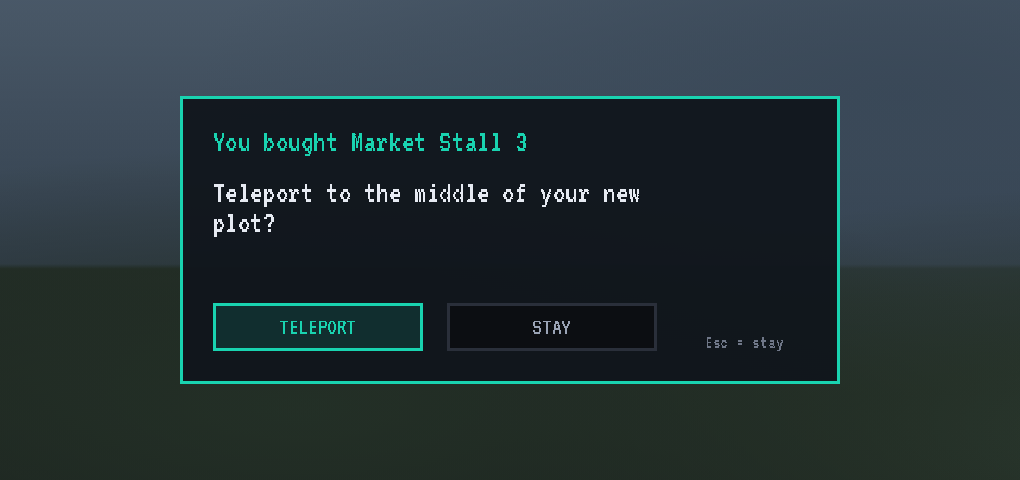
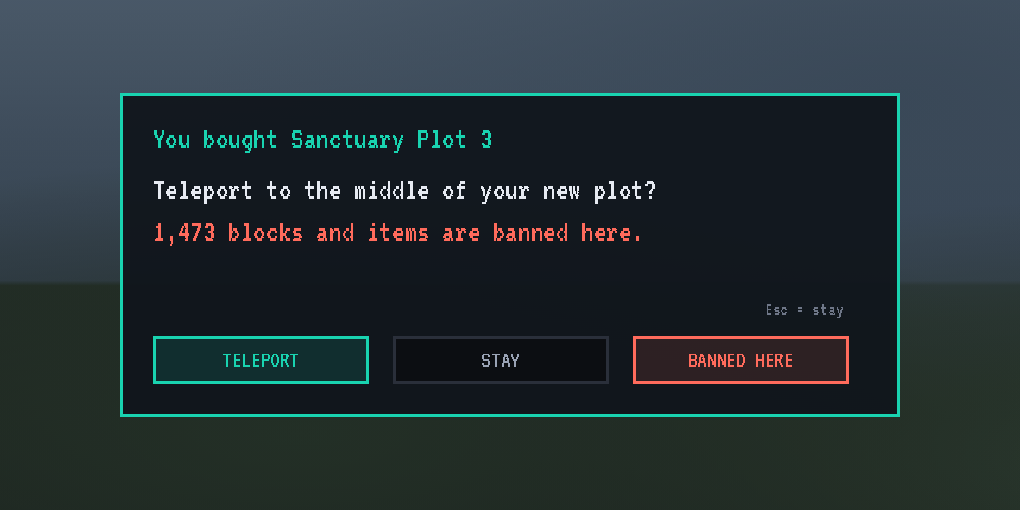
Changelog and Description

Changed region(s): [[0.0912, 0.1562, 0.8814, 0.8438]]

diff --git a/tools/curseforge/banned_here.html b/tools/curseforge/banned_here.html
@@ -1,0 +1,79 @@
+<!doctype html>
+<html><head><meta charset="utf-8"><meta name="size" content="452x268"><link rel="stylesheet" href="holo.css">
+<style>
+/* Laid out from client/BannedHereScreen.java (420 x 236): cells 17 from (12, 42), 23 columns, 9 rows, the card under the grid. */
+.slot { position: absolute; width: 16px; height: 16px; background: #171b22; outline: 1px solid; }
+.slot svg { position: absolute; left: 2px; top: 2px; width: 12px; height: 12px; }
+.slot.pick { outline-color: #fff !important; }
+</style></head>
+<body>
+<div class="world"></div>
+<div class="screen" style="left:16px;top:16px;width:420px;height:236px" id="s">
+    <div class="abs t1 tq" style="left:8px;top:8px">BANNED HERE</div>
+    <div class="abs t6 muted" style="left:80px;top:10px">Sanctuary Plot 3: 1,473 items</div>
+    <div class="chip" style="left:368px;top:6px;width:44px;height:12px;font-size:8px;color:var(--text)">CLOSE</div>
+    <div class="inset" style="left:8px;top:22px;width:120px;height:14px"><span class="abs t6 hint" style="left:4px;top:4px">search, or @mod</span></div>
+    <div class="chip on" style="left:134px;top:23px;width:34px;height:12px;font-size:5.8px;color:var(--text);border-color:var(--text);background:rgba(230,234,242,.1)">ALL 1,473</div>
+    <div class="chip" style="left:170px;top:23px;width:46px;height:12px;font-size:5.8px">PLACE 1,473</div>
+    <div class="chip" style="left:218px;top:23px;width:38px;height:12px;font-size:5.8px">USE 1,473</div>
+    <div class="chip" style="left:258px;top:23px;width:34px;height:12px;font-size:5.8px;color:var(--hint)">BREAK 0</div>
+    <div class="chip" style="left:294px;top:23px;width:42px;height:12px;font-size:5.8px;color:var(--hint)">BRING IN 0</div>
+    <div class="inset" style="left:8px;top:38px;width:404px;height:161px"></div>
+    <div class="abs" style="left:406px;top:42px;width:4px;height:153px;background:#171b22"></div>
+    <div class="abs" style="left:406px;top:42px;width:4px;height:34px;background:var(--dim)"></div>
+    <!-- the card for the item under the mouse -->
+    <div class="abs" style="left:8px;top:203px;width:404px;height:25px;background:#0a0d12;border:1px solid var(--line)"></div>
+    <div class="abs" id="cardicon" style="left:11px;top:207px;width:16px;height:16px"></div>
+    <div class="abs t75 text" style="left:30px;top:207px">Digital Miner</div>
+    <div class="abs t5 hint" style="left:30px;top:216px">Mekanism&nbsp;&nbsp;mekanism:digital_miner</div>
+    <div class="chip gold" style="left:224px;top:209px;width:44px;height:11px;font-size:5.4px">PLACE</div>
+    <div class="chip on" style="left:270px;top:209px;width:44px;height:11px;font-size:5.4px">USE</div>
+    <div class="chip" style="left:316px;top:209px;width:44px;height:11px;font-size:5.4px">BREAK</div>
+    <div class="chip" style="left:362px;top:209px;width:44px;height:11px;font-size:5.4px">BRING IN</div>
+</div>
+<script>
+const s = document.getElementById('s');
+const add = h => s.insertAdjacentHTML('beforeend', h);
+function cube(t, l, r, dot) {
+  let v = `<svg viewBox="0 0 12 12"><polygon points="6,0.5 11.5,3.2 6,6 0.5,3.2" fill="${t}"/><polygon points="0.5,3.2 6,6 6,11.5 0.5,8.8" fill="${l}"/><polygon points="11.5,3.2 6,6 6,11.5 11.5,8.8" fill="${r}"/>`;
+  if (dot) v += `<rect x="5" y="2.2" width="2" height="1.2" fill="${dot}"/><rect x="2.3" y="6" width="1.6" height="1.6" fill="${dot}"/><rect x="8" y="6.6" width="1.6" height="1.6" fill="${dot}"/>`;
+  return v + '</svg>';
+}
+function rod(c, h) { return `<svg viewBox="0 0 12 12"><rect x="1" y="5" width="10" height="2" fill="${c}"/><rect x="1" y="4.4" width="10" height=".6" fill="${h}"/></svg>`; }
+function orb(c, h) { return `<svg viewBox="0 0 12 12"><circle cx="6" cy="6" r="4.4" fill="${c}"/><circle cx="4.6" cy="4.4" r="1.4" fill="${h}"/></svg>`; }
+function tool(c, h) { return `<svg viewBox="0 0 12 12"><rect x="5.2" y="4" width="1.6" height="7.5" fill="#8a6a30"/><rect x="2" y="1" width="8" height="3.2" fill="${c}"/><rect x="2" y="1" width="8" height="1" fill="${h}"/></svg>`; }
+const hue = (h, s, l) => `hsl(${h} ${s}% ${l}%)`;
+function block(h, s, l, dot) { return cube(hue(h, s, l + 12), hue(h, s, l), hue(h, s, l - 8), dot); }
+// mods and a few of their items, in Region Guard's order (by mod, then by name)
+const mods = [
+  ['APPLIED ENERGISTICS 2', 30, [[i => block(260, 18, 34 + (i % 3) * 4, i % 2 ? '#b58cff' : null)], [i => rod(hue(275, 40, 45 + (i % 4) * 5), '#d9c8ff')]]],
+  ['BALLISTIX', 13, [[i => rod(hue(10, 10, 55), '#e8e8e8')], [i => orb('#3a3f48', '#ff6b5c')]]],
+  ['CREATE', 23, [[i => block(32, 45, 40 + (i % 3) * 3, '#c9a35a')], [i => tool('#c9a35a', '#e8d29a')]]],
+  ['MEKANISM', 32, [[i => block(205, 12, 44 + (i % 4) * 3, ['#5de6e0', '#ffd23a', '#ff6b5c', '#2ecc71'][i % 4])], [i => tool('#a9b2bf', '#e6eaf2')]]],
+  ['MINECRAFT', 8, [[i => cube('#e8e8e8', '#d23a2e', '#b02c22')], [i => orb('#d9a6ff', '#ffffff')], [i => block(280, 40, 18, '#ff8a2a')]]],
+];
+let row = 0, slots = [];
+for (const [name, n, kinds] of mods) {
+  if (row >= 9) break;
+  const y = 42 + row * 17;
+  add(`<div class="abs t6 muted" style="left:12px;top:${y + 5}px">${name}</div>`);
+  add(`<div class="abs" style="left:12px;top:${y + 13}px;width:389px;height:1px;background:var(--line)"></div>`);
+  row++;
+  for (let i = 0; i < n && row < 9; i++) {
+    const c = i % 23;
+    if (c === 0 && i > 0) row++;
+    if (row >= 9) break;
+    const k = kinds[(i * 7 + 3) % kinds.length];
+    slots.push([12 + c * 17, 42 + row * 17, k[0](i), name, i]);
+  }
+  row++;
+}
+const colourOf = () => 'var(--gold)'; // PLACE is the strongest rule on every item of this list
+const isPick = (mod, i) => mod === 'MEKANISM' && i === 5;
+slots.forEach(([x, y, svg, mod, i]) => add(`<div class="slot${isPick(mod, i) ? ' pick' : ''}" style="left:${x}px;top:${y}px;outline-color:${colourOf()}">${svg}</div>`));
+const picked = slots.find(sl => isPick(sl[3], sl[4]));
+document.getElementById('cardicon').innerHTML = `<div class="slot" style="left:0;top:0;outline:none;background:none">${picked ? picked[2] : ''}</div>`;
+// the pointer over the picked slot
+if (picked) add(`<svg class="abs" style="left:${picked[0] + 9}px;top:${picked[1] + 9}px;width:9px;height:12px" viewBox="0 0 9 12"><polygon points="0,0 0,10 3,7.5 5,11.5 6.6,10.8 4.7,7 8.5,7" fill="#fff" stroke="#000" stroke-width=".7"/></svg>`);
+</script>
+</body></html>

diff --git a/tools/curseforge/office_plots.html b/tools/curseforge/office_plots.html
@@ -1,0 +1,68 @@
+<!doctype html>
+<html><head><meta charset="utf-8"><meta name="size" content="452x268"><link rel="stylesheet" href="holo.css">
+<style>
+/* Laid out from client/OfficePlotsScreen.java (420 x 236): the list at (8, 66) 194 wide in rows of 12, the map at (208, 52) 204 x 160. */
+.box { position: absolute; width: 8px; height: 8px; background: var(--inset); border: 1px solid var(--line); }
+.box.on { border-color: var(--tq); background: rgba(25, 211, 176, .2); }
+.box.on::after { content: ""; position: absolute; left: 1px; top: 1px; width: 4px; height: 4px; background: var(--tq); }
+.p { position: absolute; border: 1px solid; }
+</style></head>
+<body>
+<div class="world"></div>
+<div class="screen" style="left:16px;top:16px;width:420px;height:236px" id="s">
+    <div class="abs t1 tq" style="left:8px;top:8px">OFFICE PLOTS</div>
+    <div class="abs t6 muted" style="left:90px;top:10px">Land Office at 128, 70, -42 - sanctuary</div>
+    <div class="chip" style="left:368px;top:6px;width:44px;height:12px;font-size:8px;color:var(--text)">DONE</div>
+    <div class="abs t6 muted" style="left:8px;top:26px">LISTS</div>
+    <div class="chip" style="left:40px;top:23px;width:62px;height:12px">EVERY PLOT</div>
+    <div class="chip on" style="left:104px;top:23px;width:62px;height:12px">CHOSEN</div>
+    <div class="abs t6 text" style="left:172px;top:26px">7 of 12 plots listed here</div>
+    <div class="chip" style="left:8px;top:38px;width:60px;height:11px;color:var(--text);border-color:var(--text);background:rgba(230,234,242,.1)">PLOTS</div>
+    <div class="chip" style="left:70px;top:38px;width:60px;height:11px">GROUPS</div>
+    <div class="inset" style="left:8px;top:52px;width:194px;height:14px"><span class="abs t6 hint" style="left:4px;top:4px">Search plots or groups</span></div>
+    <div class="inset" style="left:8px;top:66px;width:194px;height:62px"></div>
+    <div class="inset" style="left:208px;top:52px;width:204px;height:160px"></div>
+    <div class="abs t5 hint" style="left:208px;top:215px">Click a plot to tick it. Teal: ticked. Gold: in a ticked group.</div>
+    <div class="abs t6 hint" style="left:8px;top:224px">Lists the ticked plots and every plot in the ticked groups. Copies of a ticked plot are ticked too.</div>
+</div>
+<script>
+const s = document.getElementById('s');
+const add = h => s.insertAdjacentHTML('beforeend', h);
+// [id, group, ticked, x, z] on a 16-block grid; the office sits in the middle of the market street
+const plots = [
+  ['sanctuary_plot_1', '', true, 0, 0], ['sanctuary_plot_2', '', true, 1, 0], ['sanctuary_plot_3', '', true, 2, 0],
+  ['sanctuary_plot_4', '', false, 3, 0], ['sanctuary_plot_5', '', false, 4, 0],
+  ['market_stall_1', 'market', false, 0, 1], ['market_stall_2', 'market', false, 1, 1], ['market_stall_3', 'market', false, 2, 1],
+  ['market_stall_4', 'market', false, 3, 1], ['spawn_shop_1', 'spawn', false, 0, 2], ['spawn_shop_2', 'spawn', false, 1, 2], ['spawn_shop_3', 'spawn', false, 2, 2],
+];
+const listed = p => p[2] || p[1] === 'market';
+// the list: 9 rows less 4 when a plot is picked (sanctuary_plot_3 is picked)
+plots.slice(0, 5).forEach((p, i) => {
+  const y = 67 + i * 12;
+  if (p[0] === 'sanctuary_plot_3') add(`<div class="abs" style="left:9px;top:${y}px;width:192px;height:12px;background:rgba(25,211,176,.13)"></div>`);
+  add(`<div class="box${p[2] ? ' on' : ''}" style="left:11px;top:${y + 2}px"></div>`);
+  add(`<div class="abs t6 ${listed(p) ? 'text' : 'muted'}" style="left:24px;top:${y + 3}px">${p[0]}</div>`);
+  add(`<div class="abs t5 ${p[1] === 'market' ? 'gold' : 'hint'}" style="right:${420 - 197}px;top:${y + 4}px">${p[1] ? p[1] + '&nbsp;&nbsp;' : ''}16x16</div>`);
+});
+add('<div class="chip" style="left:8px;top:134px;width:70px;height:11px;font-size:5.8px;color:var(--tq)">TICK ALL SHOWN</div>');
+add('<div class="chip" style="left:80px;top:134px;width:40px;height:11px;font-size:5.8px">CLEAR</div>');
+add('<div class="abs t5 muted" style="left:8px;top:149px">Group of sanctuary_plot_3:</div>');
+[['no group', 40, true], ['market', 32, false], ['spawn', 28, false], ['sanctuary', 40, false]].reduce((x, [g, w, on]) => {
+  add(`<div class="chip${on ? ' gold' : ''}" style="left:${x}px;top:158px;width:${w}px;height:11px;font-size:5.8px">${g}</div>`);
+  return x + w + 2;
+}, 8);
+// the map
+const ox = 222, oz = 66, cell = 34;
+plots.forEach(p => {
+  const c = p[2] ? 'var(--tq)' : p[1] === 'market' ? 'var(--gold)' : 'var(--dim)';
+  const bg = p[2] ? 'rgba(25,211,176,.27)' : p[1] === 'market' ? 'rgba(255,210,58,.27)' : 'rgba(74,80,96,.27)';
+  const sel = p[0] === 'sanctuary_plot_3' ? ';border-color:#fff' : '';
+  add(`<div class="p" style="left:${ox + p[3] * cell}px;top:${oz + p[4] * 46}px;width:${cell - 4}px;height:${cell - 4}px;border-color:${c};background:${bg}${sel}"></div>`);
+});
+add(`<div class="abs" style="left:${ox + 4 * cell + 2}px;top:${oz + 46 + 12}px;width:5px;height:5px;background:#ffb84d"></div>`);
+add(`<div class="abs t5" style="left:${ox + 4 * cell - 6}px;top:${oz + 46 + 20}px;color:#ffb84d">Land Office</div>`);
+// a tooltip over a market stall
+add(`<div class="abs" style="left:${ox + 1 * cell + 18}px;top:${oz + 46 + 18}px;background:rgba(16,0,16,.94);border:1px solid #2b0e5a;padding:3px 4px;white-space:nowrap;line-height:1.25">
+  <div class="t6 text">market_stall_2</div><div class="t6 muted">group market</div><div class="t6 tq">listed at this office</div></div>`);
+</script>
+</body></html>

diff --git a/tools/curseforge/banned_button.html b/tools/curseforge/banned_button.html
@@ -1,0 +1,31 @@
+<!doctype html>
+<html><head><meta charset="utf-8"><meta name="size" content="340x190"><link rel="stylesheet" href="holo.css">
+<style>
+/* The inventory's top left (client/BannedInventoryButton.java): BSP-Core's TEAM and KITS, then BANNED, each 40 x 14 with a gap of 2. */
+.corner { position: absolute; width: 40px; height: 14px; background: #10151c; border: 1px solid #2a2f3a; color: var(--muted);
+    font-size: 8px; display: flex; align-items: center; justify-content: center; }
+.corner.hot { border-color: var(--tq); color: var(--tq); }
+.inv { position: absolute; background: #c6c6c6; border: 2px solid; border-color: #fff #555 #555 #fff; box-shadow: 0 0 0 1px #000; }
+.s { position: absolute; width: 18px; height: 18px; background: #8b8b8b; border: 1px solid; border-color: #373737 #fff #fff #373737; box-sizing: border-box; }
+.tip { position: absolute; background: rgba(16, 0, 16, 0.94); border: 1px solid #2b0e5a; padding: 3px 4px; font-size: 8px; color: #fff; white-space: nowrap; box-shadow: inset 0 0 0 1px #25034d; }
+</style></head>
+<body>
+<div class="world"></div>
+<div class="corner" style="left:2px;top:2px">TEAM</div>
+<div class="corner" style="left:44px;top:2px">KITS</div>
+<div class="corner hot" style="left:86px;top:2px">BANNED</div>
+<svg class="abs" style="left:112px;top:10px;width:9px;height:12px" viewBox="0 0 9 12"><polygon points="0,0 0,10 3,7.5 5,11.5 6.6,10.8 4.7,7 8.5,7" fill="#fff" stroke="#000" stroke-width=".7"/></svg>
+<div class="tip" style="left:122px;top:20px">Blocks and items banned in Sanctuary Plot 3. Click to see them.</div>
+<!-- the survival inventory, 176 x 166, in the middle -->
+<div class="inv" id="inv" style="left:82px;top:40px;width:176px;height:146px"></div>
+<script>
+const inv = document.getElementById('inv');
+const add = h => inv.insertAdjacentHTML('beforeend', h);
+add('<div class="abs" style="left:24px;top:6px;width:50px;height:70px;background:#000"></div>');
+for (let i = 0; i < 4; i++) add(`<div class="s" style="left:6px;top:${6 + i * 18}px"></div>`);
+add('<div class="abs" style="left:96px;top:14px;font-size:8px;color:#404040">Crafting</div>');
+for (let r = 0; r < 2; r++) for (let c = 0; c < 2; c++) add(`<div class="s" style="left:${96 + c * 18}px;top:${24 + r * 18}px"></div>`);
+add('<div class="s" style="left:152px;top:34px"></div>');
+for (let r = 0; r < 3; r++) for (let c = 0; c < 9; c++) add(`<div class="s" style="left:${6 + c * 18}px;top:${82 + r * 18}px"></div>`);
+</script>
+</body></html>

diff --git a/tools/curseforge/plot_bought.html b/tools/curseforge/plot_bought.html
@@ -1,14 +1,15 @@
 <!doctype html>
-<html><head><meta charset="utf-8"><meta name="size" content="340x160"><link rel="stylesheet" href="holo.css"></head>
+<html><head><meta charset="utf-8"><meta name="size" content="340x170"><link rel="stylesheet" href="holo.css"></head>
 <body>
 <div class="world"></div>
-<!-- After buying a plot (client/PlotBoughtScreen.java, 220x96 units): the edge-travel pop-up's layout. -->
-<div class="screen" style="left:60px;top:32px;width:220px;height:96px">
-    <div class="abs t1 tq" style="left:10px;top:9px">You bought Market Stall 3</div>
-    <div class="abs t1 text" style="left:10px;top:26px">Teleport to the middle of your new</div>
-    <div class="abs t1 text" style="left:10px;top:36px">plot?</div>
-    <div class="btn tq" style="left:10px;top:68px;width:70px;height:16px">TELEPORT</div>
-    <div class="btn" style="left:88px;top:68px;width:70px;height:16px">STAY</div>
-    <div class="abs t6 hint" style="left:174px;top:78px">Esc = stay</div>
+<!-- After buying a plot (client/PlotBoughtScreen.java, 260x108 units): the question, the banned count when anything is banned, three keys. -->
+<div class="screen" style="left:40px;top:31px;width:260px;height:108px">
+    <div class="abs t1 tq" style="left:10px;top:9px">You bought Sanctuary Plot 3</div>
+    <div class="abs t1 text" style="left:10px;top:26px">Teleport to the middle of your new plot?</div>
+    <div class="abs t1 bad" style="left:10px;top:40px">1,473 blocks and items are banned here.</div>
+    <div class="btn tq" style="left:10px;top:80px;width:72px;height:16px">TELEPORT</div>
+    <div class="btn" style="left:90px;top:80px;width:72px;height:16px">STAY</div>
+    <div class="btn bad" style="left:170px;top:80px;width:72px;height:16px">BANNED HERE</div>
+    <div class="abs t6 hint" style="left:214px;top:68px">Esc = stay</div>
 </div>
 </body></html>

diff --git a/tools/curseforge/rank_title.html b/tools/curseforge/rank_title.html
@@ -1,0 +1,22 @@
+<!doctype html>
+<html><head><meta charset="utf-8"><meta name="size" content="340x170"><link rel="stylesheet" href="holo.css">
+<style>
+/* An entry refusal shown as /title shows text (protection/Protection.tellTitle): the title large, the subtitle under it, both white with a shadow. */
+.mc { position: absolute; left: 0; width: 340px; text-align: center; color: #fff; text-shadow: 1.2px 1.2px 0 #3f3f3f; white-space: nowrap; }
+.gate { position: absolute; border: 1px solid var(--gold); background: rgba(255, 210, 58, 0.10); }
+.hotbar { position: absolute; left: 79px; top: 148px; width: 182px; height: 22px; background: rgba(0,0,0,.45); border: 1px solid #555; }
+.hotbar i { position: absolute; top: 1px; width: 18px; height: 18px; border: 1px solid #8b8b8b; box-sizing: border-box; }
+</style></head>
+<body>
+<div class="world"></div>
+<!-- the ranked mine's edge in front of the player -->
+<div class="gate" style="left:96px;top:78px;width:148px;height:58px;transform:perspective(120px) rotateX(18deg)"></div>
+<div class="abs t6 gold" style="left:0;width:340px;top:128px;text-align:center">diamond_mine</div>
+<div class="mc" style="top:42px;font-size:20px">You need Knight to enter</div>
+<div class="mc" style="top:66px;font-size:10.5px">You are Squire: 200 more points.</div>
+<div class="hotbar" id="hb"></div>
+<script>
+const hb = document.getElementById('hb');
+for (let i = 0; i < 9; i++) hb.insertAdjacentHTML('beforeend', `<i style="left:${1 + i * 20}px;${i === 0 ? 'border-color:#fff' : ''}"></i>`);
+</script>
+</body></html>

diff --git a/docs/curseforge/DESCRIPTION.md b/docs/curseforge/DESCRIPTION.md
@@ -5,8 +5,8 @@
 **World protection, banned blocks, land claims with eye-catching plot markers, a map that draws and edits every region, automated mines and linked servers for Minecraft 1.20.1, all run from in-game screens.**
 
 BSP Region Guard looks after the world on a Build Secure Protect server:
-- Admins draw regions and decide what may happen inside them, down to which blocks and items may be placed, used, broken or even carried in.
-- Players buy land and run their own plots. Plots for sale stand out in the world with a marker and their name until someone buys them.
+- Admins draw regions and decide what may happen inside them, down to which blocks and items may be placed, used, broken or even carried in. Players can always look up what's banned where they stand.
+- Players buy land and run their own plots. Plots for sale stand out in the world with a marker and their name until someone buys them, and each Land Office can sell its own chosen plots.
 - Admins draw, reshape, copy, move and back up regions, plots and mines on one full-window map.
 - Mines refill themselves on a timer, from blocks picked in a creative-style browser.
 - Several servers share regions, and players can walk from one server's world into the next.
@@ -88,7 +88,7 @@ When regions overlap, the one with the **higher priority** decides. A region lef
 
 ![How a rule is decided](https://raw.githubusercontent.com/Build-Secure-Protect/BSP-Region-Guard/main/docs/curseforge/images/flags_diagram.png)
 
-### The 114 flags
+### The 115 flags
 
 | Group | Flags |
 |---|---|
@@ -97,7 +97,7 @@ When regions overlap, the one with the **higher priority** decides. A region lef
 | **Explosions and mobs** | `tnt`, `creeper-explosion`, `ghast-fireball`, `wither-damage`, `enderdragon-block-damage`, `other-explosion`, `enderman-grief`, `ravager-grief`, `snowman-trails`, `mob-spawning`, `deny-spawn`, `entity-painting-destroy`, `entity-item-frame-destroy` |
 | **Fire and nature** | `fire-spread`, `fire-burn`, `lava-fire`, `lightning`, `water-flow`, `lava-flow`, `snow-fall`, `snow-melt`, `ice-form`, `ice-melt`, `frosted-ice-form`, `frosted-ice-melt`, `crop-growth`, `grass-growth`, `mycelium-spread`, `vine-growth`, `mushroom-growth`, `leaf-decay`, `rock-growth`, `sculk-growth`, `soil-dry`, `coral-fade`, `copper-fade`, `dispenser-use`, `falling-blocks` |
 | **Coming and going** | `entry`, `exit`, `exit-via-teleport`, `exit-override`, `entry-deny-message`, `exit-deny-message`, `greeting`, `farewell`, `greeting-title`, `farewell-title`, `notify-enter`, `notify-leave`, `enderpearl`, `chorus-fruit-teleport`, `teleport`, `spawn`, `teleport-message`, `allowed-ranks` |
-| **Map making** | `item-pickup`, `item-drop`, `exp-drops`, `deny-message`, `game-mode`, `time-lock`, `weather-lock`, `natural-health-regen`, `natural-hunger-drain`, `heal-delay`, `heal-amount`, `heal-min-health`, `heal-max-health`, `feed-delay`, `feed-amount`, `feed-min-hunger`, `feed-max-hunger`, `blocked-cmds`, `allowed-cmds`, `send-chat`, `receive-chat` |
+| **Map making** | `item-pickup`, `item-drop`, `exp-drops`, `deny-message`, `game-mode`, `time-lock`, `weather-lock`, `natural-health-regen`, `natural-hunger-drain`, `heal-delay`, `heal-amount`, `heal-min-health`, `heal-max-health`, `feed-delay`, `feed-amount`, `feed-min-hunger`, `feed-max-hunger`, `blocked-cmds`, `allowed-cmds`, `send-chat`, `receive-chat`, `sale-group` |
 | **BSP** | `border-warning`, `border-message`, `teleport-in`, `teleport-out`, `set-home`, `totem-place`, `totem-drop`, `mine-only-break` |
 | **Banned blocks** (section 6) | `deny-place`, `deny-use`, `deny-break`, `deny-carry` |
 
@@ -131,7 +131,15 @@ The BORDER tab also has a **PLOTS HERE** card that decides land for players in t
 - **Rank-gated mines** unlock better ores at higher ranks.
 - **Claim limits** rise with rank: 3 claims per world by default, more for higher groups (`claims.limitsByRank`).
 
-Without RankUp, give groups by hand in LuckPerms and everything works the same.
+**Players are told the rank they need.** A player turned back at a ranked region sees why in the middle of the screen, the way `/title` shows text:
+- A rank on a BSP-RankUp ladder is named with where they stand: "You need Knight to enter", and under it "You are Squire: 200 more points." or "You are Peasant, 2 ranks to go.".
+- A rank on no ladder: "You need to be VIP to enter".
+- **Higher ranks get in too:** list only the lowest rank that may enter, and every rank above it on the ladder passes, even when the LuckPerms groups don't inherit from each other.
+- A region's own `entry-deny-message` still wins; `{rank}` in it becomes the rank needed.
+
+![The rank needed, shown at a ranked mine's edge](https://raw.githubusercontent.com/Build-Secure-Protect/BSP-Region-Guard/main/docs/curseforge/images/rank_title.png)
+
+Without RankUp, give groups by hand in LuckPerms and everything works the same; the refusal then names the LuckPerms groups.
 
 ## 6. Banned blocks: keep chosen blocks and items out
 
@@ -177,6 +185,20 @@ Every change saves at once.
 - **Where:** bans add up. A block banned by a region, its parent or the world default is banned everywhere beneath, so banning TNT on the world default bans it in the whole world, and a smaller region can't lift it.
 - **By command:** `/rg flag spawn deny-carry minecraft:tnt,@create`. Entries are ids, whole mods (`@create` or `create:*`) or tags (`#minecraft:beds`).
 
+**Players can see what's banned.** Nobody has to find out by trying to place something:
+- **The BANNED button.** While you stand where anything is banned, a BANNED button shows in the top left of your inventory, beside BSP-Core's TEAM and KITS buttons. Point at it to see which region's list it is; click it to open BANNED HERE. Players who don't want it can turn it off with `ui.bannedButton = false` in `config/bsp_region_guard-client.toml`.
+
+![The BANNED button in the inventory](https://raw.githubusercontent.com/Build-Secure-Protect/BSP-Region-Guard/main/docs/curseforge/images/banned_button.png)
+
+- **BANNED HERE** shows every banned item in one grid, grouped by mod. Tags and whole mods are opened up into their items, matched just as the server checks them.
+  - **Search** works as in JEI (`@mekanism`).
+  - **Chips** show one rule at a time, with counts: PLACE, USE, BREAK, BRING IN.
+  - **Point at an item** and the card underneath shows which rules stop it.
+- **Before and after buying:** the Land Office's plot card says how many things are banned on a plot and has a BANNED key, and the "you bought it" window says it again with a BANNED HERE button (section 7).
+- **By command:** `/claim banned` for where you stand, `/claim banned <plot>` for a plot.
+
+![The BANNED HERE list](https://raw.githubusercontent.com/Build-Secure-Protect/BSP-Region-Guard/main/docs/curseforge/images/banned_here.png)
+
 ## 7. Land for players: claims
 
 Admins sell land in two ways:
@@ -189,11 +211,19 @@ Admins sell land in two ways:
 1. A player takes the plot tool (`/claim tool`) and clicks two corners.
 2. BSP-Core's **Land Office** opens with that ground drawn on a map, priced, and with nearby claims shown.
 3. The player buys it there.
-4. A window asks whether to **TELEPORT** to the middle of the new plot (or to its teleport point), or **STAY**.
+4. A window asks whether to **TELEPORT** to the middle of the new plot (or to its teleport point), or **STAY**. If anything is banned there, it says how many blocks and items, with a **BANNED HERE** button.
 
-Plots for sale are bought at the Land Office block too, with the same offer to teleport.
+Plots for sale are bought at the Land Office block too, with the same offer to teleport. Its plot card shows "N BANNED" under the price and a **BANNED** key, so players know a plot's bans before they pay.
 
-![The offer to teleport after buying](https://raw.githubusercontent.com/Build-Secure-Protect/BSP-Region-Guard/main/docs/curseforge/images/plot_bought.png)
+![The window after buying, with the plot's banned count](https://raw.githubusercontent.com/Build-Secure-Protect/BSP-Region-Guard/main/docs/curseforge/images/plot_bought.png)
+
+**Which plots each Land Office sells.** By default a Land Office lists every plot for sale and open area in its world. Admins can give each office its own list in the **OFFICE PLOTS** window: sneak and right-click the Land Office with the Region Wand, or press the **ADMIN** key on the Land Office screen (only admins and operators see it).
+- **EVERY PLOT** or **CHOSEN:** a CHOSEN office lists the plots ticked there and every plot in the sale groups ticked there. Tick a plot in the list or click it on the map.
+- **Sale groups:** put plots in a group ("market", "spawn") on the PLOTS tab or with `/rg flag <plot> sale-group market`, then tick the group on the GROUPS tab. Several offices can list the same group.
+- **Copies and renames:** a copy of a ticked plot made on the region map is ticked at the same offices and keeps its group; a renamed plot stays ticked. A broken Land Office forgets its list.
+- An office sells only what it lists, even if a player's game asks for another plot.
+
+![The OFFICE PLOTS window](https://raw.githubusercontent.com/Build-Secure-Protect/BSP-Region-Guard/main/docs/curseforge/images/office_plots.png)
 
 **Plots for sale stand out.** Every plot for sale and open area shows to every player in its own colour, with a marker over its middle carrying its name, until it's bought; then it disappears so it's never in the new owner's way:
 - **ARROW** (the default): a big arrow pointing down at the ground, 20% see-through, with the name above it.
@@ -317,7 +347,7 @@ On a network of servers, turn on the optional **shared storage**:
 - **MySQL:** every server keeps its own regions and can see everyone else's.
 - **Redis:** carries messages (mine resets, triggers, travellers) between servers in milliseconds, with MySQL as a safety net.
 
-A single server needs neither. Region Guard bundles no database or Redis library, so nothing clashes with Mohist or other mods.
+A single server needs neither. Region Guard bundles no database or Redis library, so nothing clashes with Mohist or other mods. The connection details and passwords live in their own file, `config/bsp_region_guard-network.toml`, which is never sent to players.
 
 ![One network, many servers](https://raw.githubusercontent.com/Build-Secure-Protect/BSP-Region-Guard/main/docs/curseforge/images/network.png)
 
@@ -341,7 +371,7 @@ When a player reaches a linked edge, a window asks whether to travel:
 
 ### BSP-Core (required)
 - **Money:** claims are paid from the **BSP-Core bank** in Shatter Pieces, or in **Shatter Coins** from the inventory if you choose. Refunds go back the same way.
-- **The Land Office:** BSP-Core's land shop. Outline ground with the plot tool and it opens with the price, in pieces or coins; buy, enlarge or give up there. It also shows plots for sale and your neighbours' claims.
+- **The Land Office:** BSP-Core's land shop. Outline ground with the plot tool and it opens with the price, in pieces or coins; buy, enlarge or give up there. It also shows plots for sale and your neighbours' claims, each plot's banned count with a BANNED key, and for admins an ADMIN key that chooses which plots that office sells.
 - **Admins:** BSP-Core's admin list decides who runs Region Guard.
 - **Shatter Totems:** regions never stop a steal near another player's placed totem. BSP-Core's Anti Totem zones and Region Guard regions work together for totem placing, teleports and homes.
 
@@ -352,6 +382,7 @@ When a player reaches a linked edge, a window asks whether to travel:
 
 ### BSP-RankUp (optional)
 - **Ranks open land:** RankUp's ranks are LuckPerms groups, the same ones Region Guard's rank gates read. Ranking up lets players into new regions and mines and raises how many claims they may own.
+- **The rank needed:** a player turned back is told the rank they need on the ladder and how far they have to go.
 - **Server name:** on a network, RankUp picks up Region Guard's server name.
 
 ### LuckPerms (optional)
@@ -381,6 +412,7 @@ When a player reaches a linked edge, a window asks whether to travel:
 | `/rg border set <width> [x z]`, `/rg border off`, `/rg border link ...` | the world border and edge links |
 | `/rg mine ...` | fill table, interval, spawn, shell, reset |
 | `/rg sale ...`, `/rg plotflags ...` | plots for sale and open areas |
+| `/rg flag <plot> sale-group <name>` | put a plot in a sale group for the Land Offices (`clear` takes it out) |
 | `/rg look <id> <part> <value>` | a plot for sale's marker: the part is `marker`, `colour`, `size`, `namesize` or `height`; `/rg look <id>` shows its look |
 | `/rg cointier <id> <tier>` | the coin tier a plot or open area is priced in (with `claims.currency = "coins"`) |
 | `/rg plotlimit <id> <number>` | how many plots one player may own inside a region (`none` removes the limit; `__global__`: in the world) |
@@ -391,13 +423,15 @@ When a player reaches a linked edge, a window asks whether to travel:
 | `/rg storage`, `/rg servers` | shared storage status |
 | `/claim gui`, `/claim tool`, `/claim list`, `/claim quote` | your claims, the plot tool, prices |
 | `/claim add`, `/claim remove`, `/claim flag`, `/claim abandon` | members, rules, giving a claim up |
+| `/claim banned [plot]` | what's banned where you stand, or on a plot |
 
 ## For developers
 
-Other mods can use Region Guard through its public API (`com.mrgregles.bsp_region_guard.api`, version 6):
+Other mods can use Region Guard through its public API (`com.mrgregles.bsp_region_guard.api`, version 8):
 - **Questions:** ask whether a flag allows something at a spot; read flag values, region bounds and the world border.
 - **Extending it:** register your own flags and exemptions.
-- **Claims and mines:** work with claims (listings, quotes, purchases, prices in pieces or coins) and mines.
+- **Claims and mines:** work with claims (listings, per Land Office too, quotes, purchases, prices in pieces or coins) and mines.
+- **Player screens:** open BANNED HERE or OFFICE PLOTS from your own screens (`api.client`).
 - **Messages:** send messages to the other servers.
 - **Events:** players entering and leaving regions, triggers, claims bought and abandoned, and mine resets.
 
